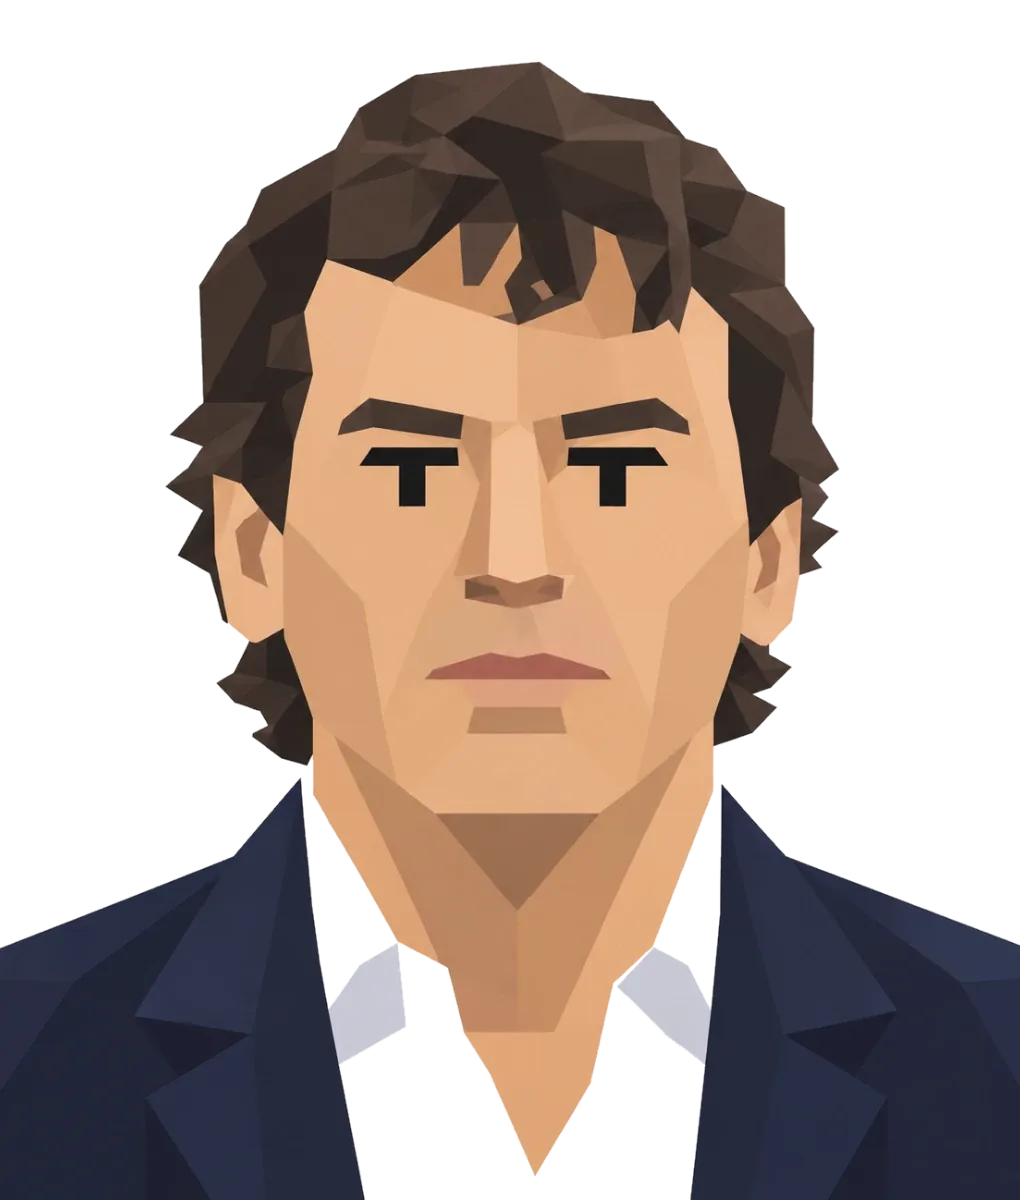
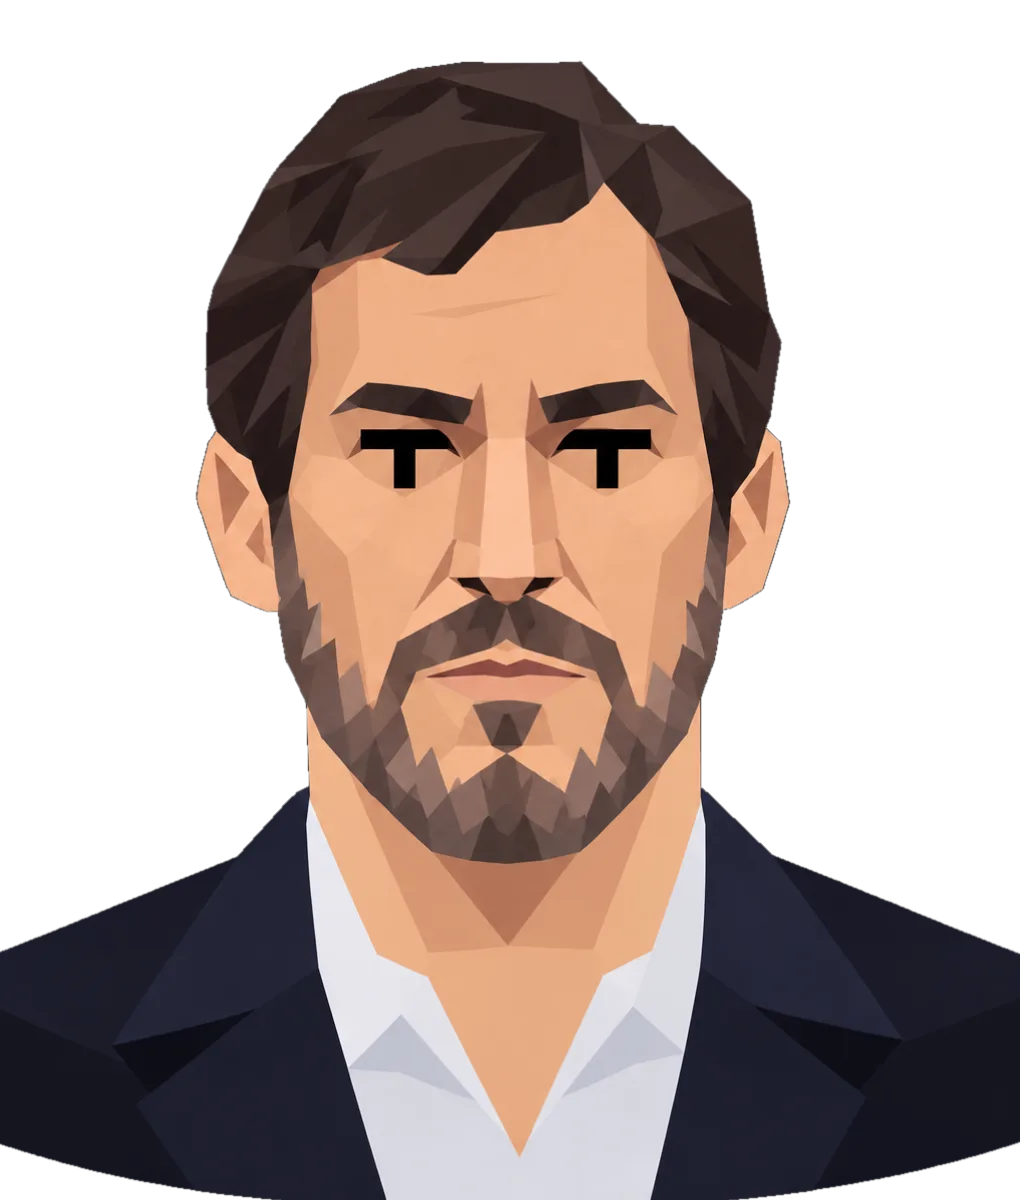
El Comisario y El Agente tienen cara, y el hermano tiene otra
Faltaban dos retratos y ya no falta ninguno: los veinticinco del reparto
tienen imagen.

Los dos fontaneros que quedaban sin dibujo -el policia viejo y el agente
que no dice para quien trabaja- salian con un gris azulado de relleno y
el nombre debajo. Ahora tienen su retrato, y los tres fontaneros
comparten la misma franja negra sobre los ojos: es lo que los hermana y
dice lo que son sin necesidad de explicarlo en ninguna carta.

Los tres pasaron por la cadena de siempre: recorte de fondo (el del
agente venia en negro opaco, el del comisario ya venia transparente),
reencuadre al lienzo comun de 1020x1200 con el mismo plano que el resto,
webp y paleta. El color de su carta sale ahora de su propia ropa -rojo
oscuro el agente, azul marino el comisario y el hermano- en vez del gris
de los que no tenian cara, asi que las esquinas de abajo dejan de leerse
como un hueco.

Comprobado con el medidor de retratos: proporcion correcta, 5% de aire
sobre la cabeza y torso llegando al borde en los tres. Cubren el 46, el
48 y el 48 por ciento del borde de abajo, que es justo la mediana del
reparto (la mayoria va del 37 al 54).

Del reajuste de acercamiento solo se han quedado las lineas nuevas: el
script recalcula la tabla entera y movia de paso tres retratos que
llevan meses ajustados, por menos de un 1,5% y sin que nadie lo pidiera.

Fuera tambien los tres .png de origen, ya comprobados: public/characters
se queda en 2,1 MB.

diff --git a/src/utils/color.ts b/src/utils/color.ts
@@ -14,22 +14,26 @@ import { COLOR_RETRATO } from '../data/coloresRetrato'
 // Con el color sacado de la propia ropa, el hueco deja de leerse como un
 // hueco y pasa a leerse como el fondo del retrato, sin tocar ni una carta a
 // mano: se anade el .webp, se vuelve a pasar el script y ya esta.
-// Los que no tienen cara Y no son una voz colectiva: el comisario, el agente y
-// el expediente. Van del MISMO gris azulado, sin color propio, y eso es parte
+// El unico que no tiene cara y tampoco es una voz colectiva: el expediente.
+// Va de un gris azulado sin color propio, y eso es parte de lo que es.
+// Dejarlo al hash del nombre daba verdes de chicle, que ademas es el color
+// con el que este juego dice "esta eleccion es limpia". Van del MISMO gris azulado, sin color propio, y eso es parte
 // de lo que son. Dejarlos al hash del nombre daba verdes de chicle, que ademas
 // es el color con el que este juego dice "esta eleccion es limpia".
 //
-// La Fontanera ya tiene retrato -con su franja negra sobre los ojos, que dice
-// lo mismo sin necesidad de fondo-, asi que su carta coge el color de su
-// propia ropa como las demas. Se queda aqui apuntada por si algun dia se le
-// quita la imagen.
+// LOS TRES FONTANEROS YA TIENEN RETRATO, los tres con la misma franja negra
+// sobre los ojos: es lo que los hermana y dice lo que son sin necesidad de
+// un fondo aparte. Asi que sus cartas cogen el color de su propia ropa como
+// las demas y este mapa se ha quedado casi vacio.
+//
+// La Fontanera sigue apuntada abajo aunque ya no se lea: COLOR_RETRATO se
+// mira primero, asi que su linea solo volveria a servir el dia que alguien le
+// quitara la imagen. Los otros dos se han ido de la lista.
 const SIN_CARA: Record<string, string> = {
   // El espejo del despacho a las siete de la manana: casi negro, sin color
   // propio, porque lo unico que hay dentro es el jugador.
   'El Espejo': '#15151a',
   'La Fontanera': '#1b1e26',
-  'El Comisario': '#1b1e26',
-  'El Agente': '#1b1e26',
   'El Expediente': '#191b21',
 }
 

diff --git a/src/data/cards.content.ts b/src/data/cards.content.ts
@@ -6307,6 +6307,7 @@ export const contentCards: Card[] = [
     id: 'comisario_oferta',
     phase: 2,
     character: 'El Comisario',
+    characterImage: 'comisario.webp',
     sinPistas: true,
     text: 'Cuarenta años en la casa y un armario que no cabe en el despacho. Ahí dentro hay carpetas de casi todos los que le están dando guerra. Yo no vendo nada, presidente. Yo presto. Y lo prestado se devuelve.',
     left: { text: 'Ese armario debería estar en un juzgado', effects: { medios: -1, gobierno: -1 }, moralidad: 3 },
@@ -6332,6 +6333,7 @@ export const contentCards: Card[] = [
     phase: 3,
     weight: 0,
     character: 'El Comisario',
+    characterImage: 'comisario.webp',
     sinPistas: true,
     text: 'Vengo a por lo mío, y no quiero dinero, que el dinero deja rastro. Tengo una causa abierta y solo hace falta que se duerma un año. Nadie tiene que archivarla: basta con que nadie la empuje. Mi armario no caduca.',
     left: {
@@ -6366,6 +6368,7 @@ export const contentCards: Card[] = [
     id: 'agente_oferta',
     phase: 2,
     character: 'El Agente',
+    characterImage: 'agente.webp',
     sinPistas: true,
     text: 'Puede llamarme Karim, aunque no me llamo así. Represento a un país que está a catorce kilómetros del suyo y al que le conviene su estabilidad. Tenemos los teléfonos de quienes le publican. Hoy nada le pedimos.',
     left: { text: 'Esta conversación no ha existido', effects: { medios: -1 }, moralidad: 3 },
@@ -6391,6 +6394,7 @@ export const contentCards: Card[] = [
     phase: 3,
     weight: 0,
     character: 'El Agente',
+    characterImage: 'agente.webp',
     sinPistas: true,
     text: 'El jueves va al Consejo un texto sobre el territorio que administramos. Mi rey lo leerá, señor presidente, y buscará una palabra: autonomía. Mi país sabe ser agradecido, si Dios quiere. Y sabe abrir la valla un viernes.',
     left: {

diff --git a/src/data/reparto.ts b/src/data/reparto.ts
@@ -70,8 +70,8 @@ export const REPARTO: Personaje[] = [
   // personas distintas haciendo exactamente el mismo trabajo, que es como
   // funciona de verdad: cuando cae uno, ya hay otro.
   { nombre: 'La Fontanera', imagen: 'fontanera.webp', quien: 'Fue periodista. Ahora hace gestiones que nadie le ha encargado por escrito.' },
-  { nombre: 'El Comisario', quien: 'Cuarenta años en la casa y un armario que no cabe en el despacho.' },
-  { nombre: 'El Agente', quien: 'Habla un español de manual, mejor que el suyo. Tiene rey, y no es el de usted.' },
+  { nombre: 'El Comisario', imagen: 'comisario.webp', quien: 'Cuarenta años en la casa y un armario que no cabe en el despacho.' },
+  { nombre: 'El Agente', imagen: 'agente.webp', quien: 'Habla un español de manual, mejor que el suyo. Tiene rey, y no es el de usted.' },
 ]
 
 // Cuantas cartas tiene cada personaje en el mazo. Se calcula del propio mazo,

diff --git a/src/data/coloresRetrato.ts b/src/data/coloresRetrato.ts
@@ -5,6 +5,8 @@
 // con `node scripts/colores-retrato.mjs` cada vez que anadas o cambies un
 // retrato; lo que no este aqui cae al color por defecto y no rompe nada.
 export const COLOR_RETRATO: Record<string, string> = {
+  'agente.webp': '#4d141f',
+  'comisario.webp': '#1b2346',
   'cruzado.webp': '#4b4316',
   'encuestador.webp': '#211f42',
   'escudero.webp': '#261e42',
@@ -14,7 +16,7 @@ export const COLOR_RETRATO: Record<string, string> = {
   'fiscal.webp': '#242e3d',
   'fontanera.webp': '#24283d',
   'guru.webp': '#441d2a',
-  'hermano.webp': '#141f4d',
+  'hermano.webp': '#242c3d',
   'independentista.webp': '#2a243d',
   'jefecomunicacion.webp': '#141e4d',
   'juez.webp': '#27243d',

diff --git a/src/data/acercamiento.ts b/src/data/acercamiento.ts
@@ -8,15 +8,17 @@
 // con dos topes: no mas de un 15% y nunca tanto como
 // para que la cabeza se salga por los lados de la carta.
 export const ACERCAMIENTO: Record<string, number> = {
+  'agente.webp': 1.15,
+  'comisario.webp': 1.15,
   'cruzado.webp': 1.15,
   'escudero.webp': 1.15,
   'feminista.webp': 1.15,
-  'guru.webp': 1.15,
   'ministrocorrupto.webp': 1.15,
   'mopongo.webp': 1.15,
   'oposicionsuave.webp': 1.15,
   'presidentaregional.webp': 1.15,
   'sociaincomoda.webp': 1.15,
+  'guru.webp': 1.15,
   'jefecomunicacion.webp': 1.056,
   'juez.webp': 1.012,
 }
